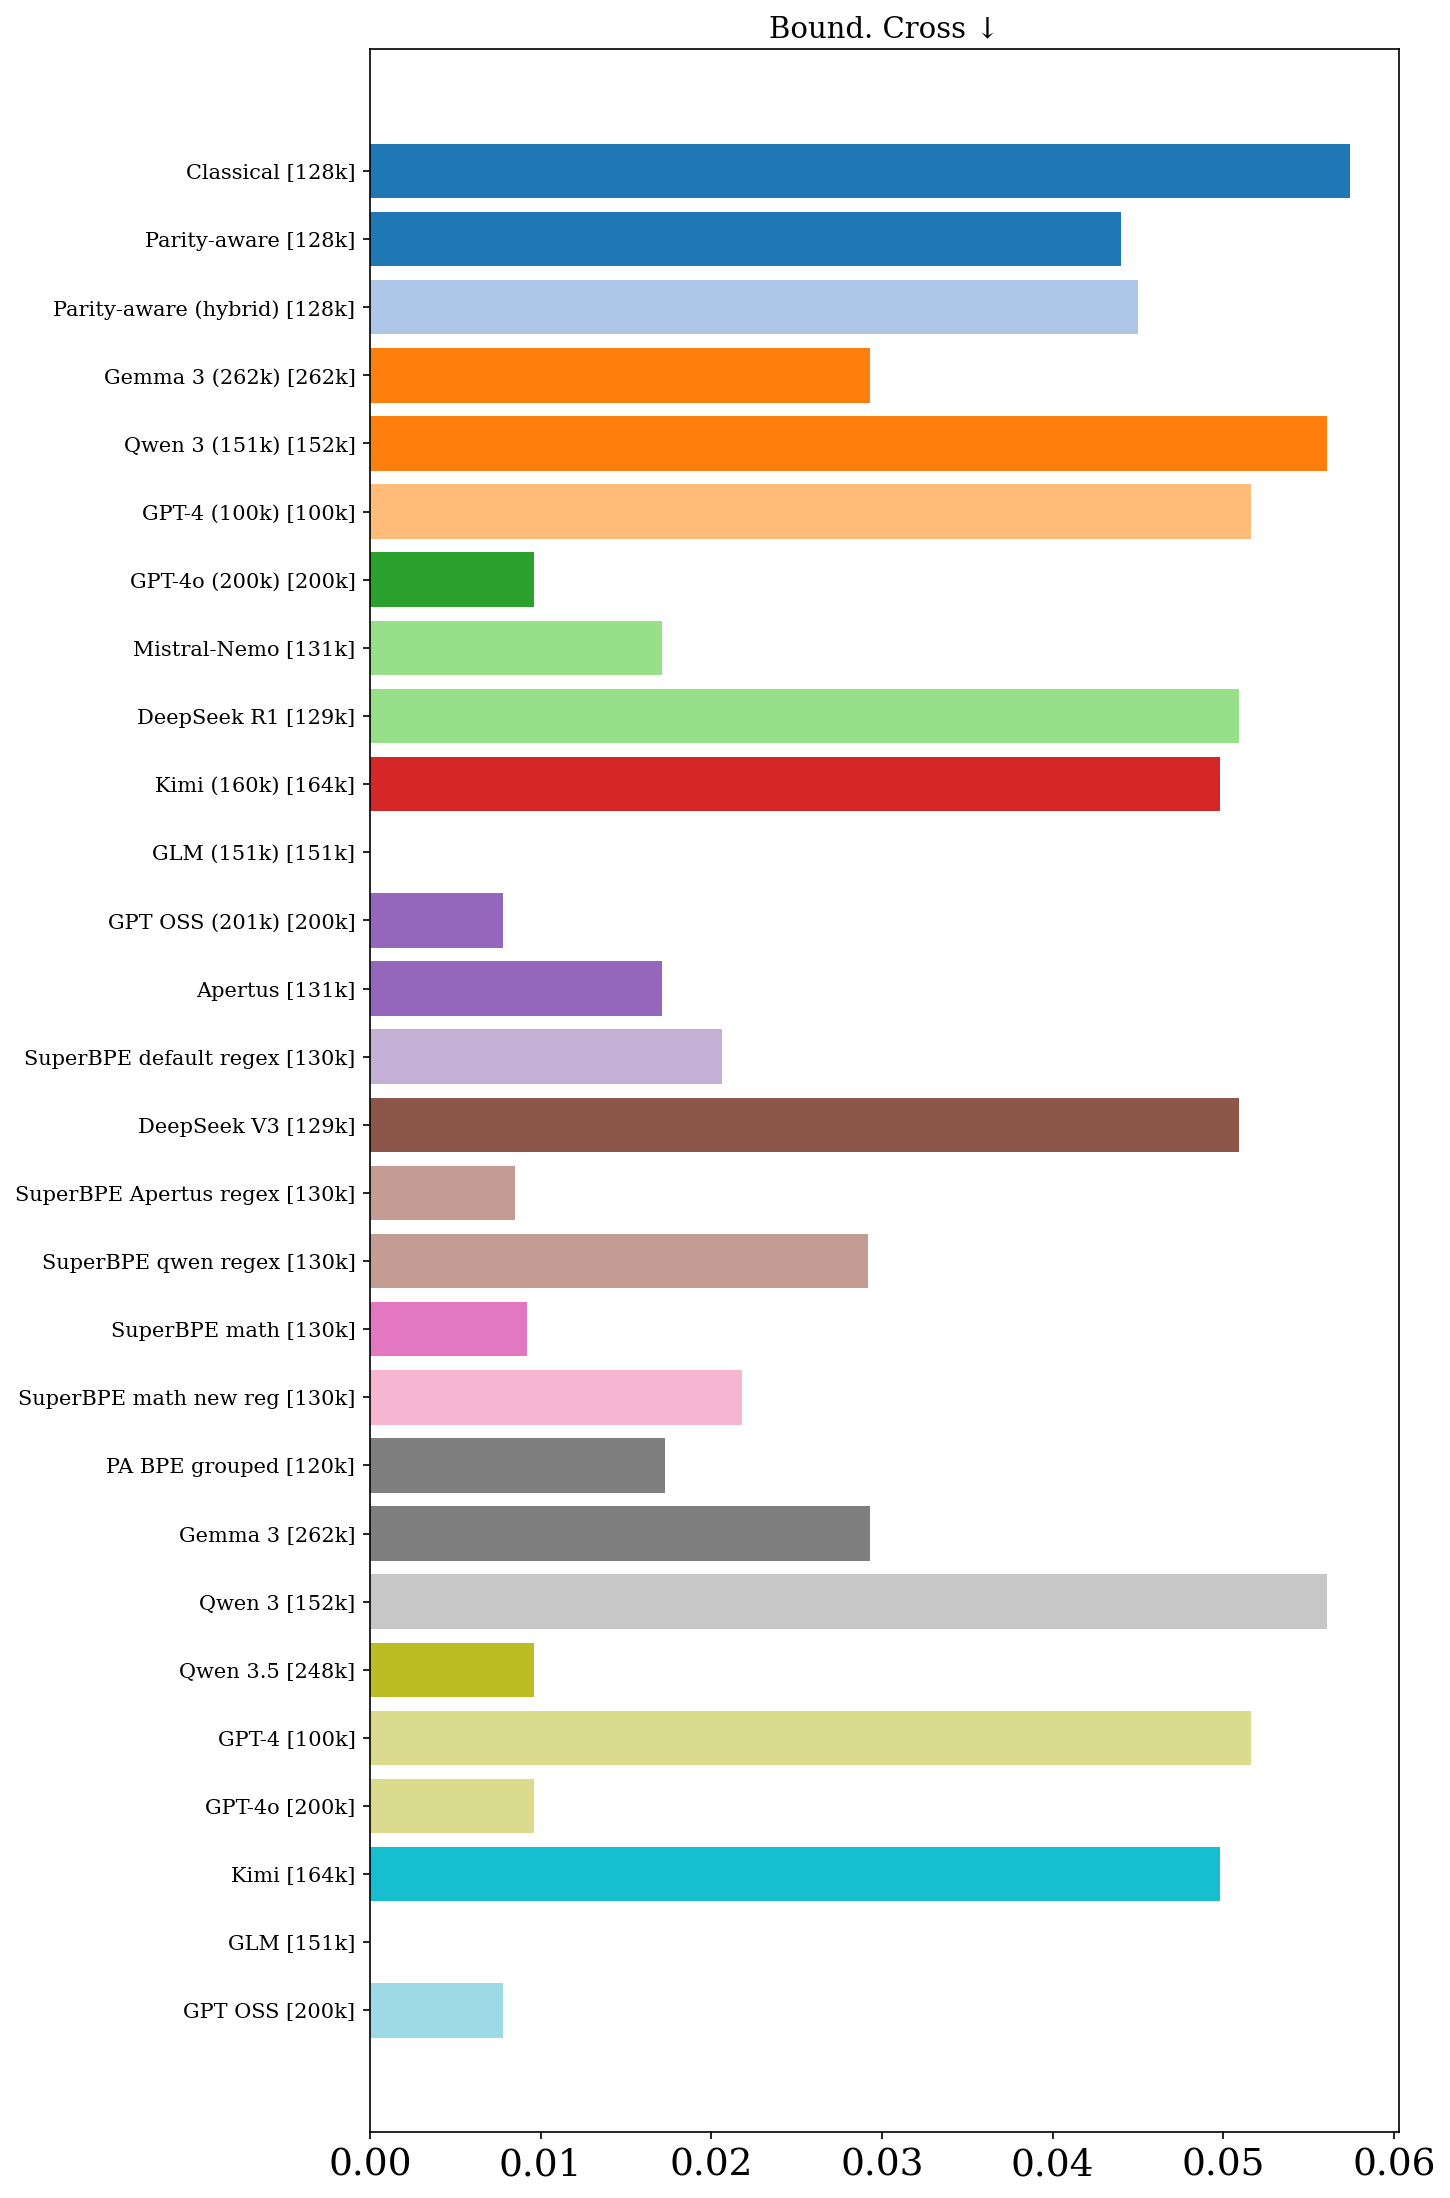
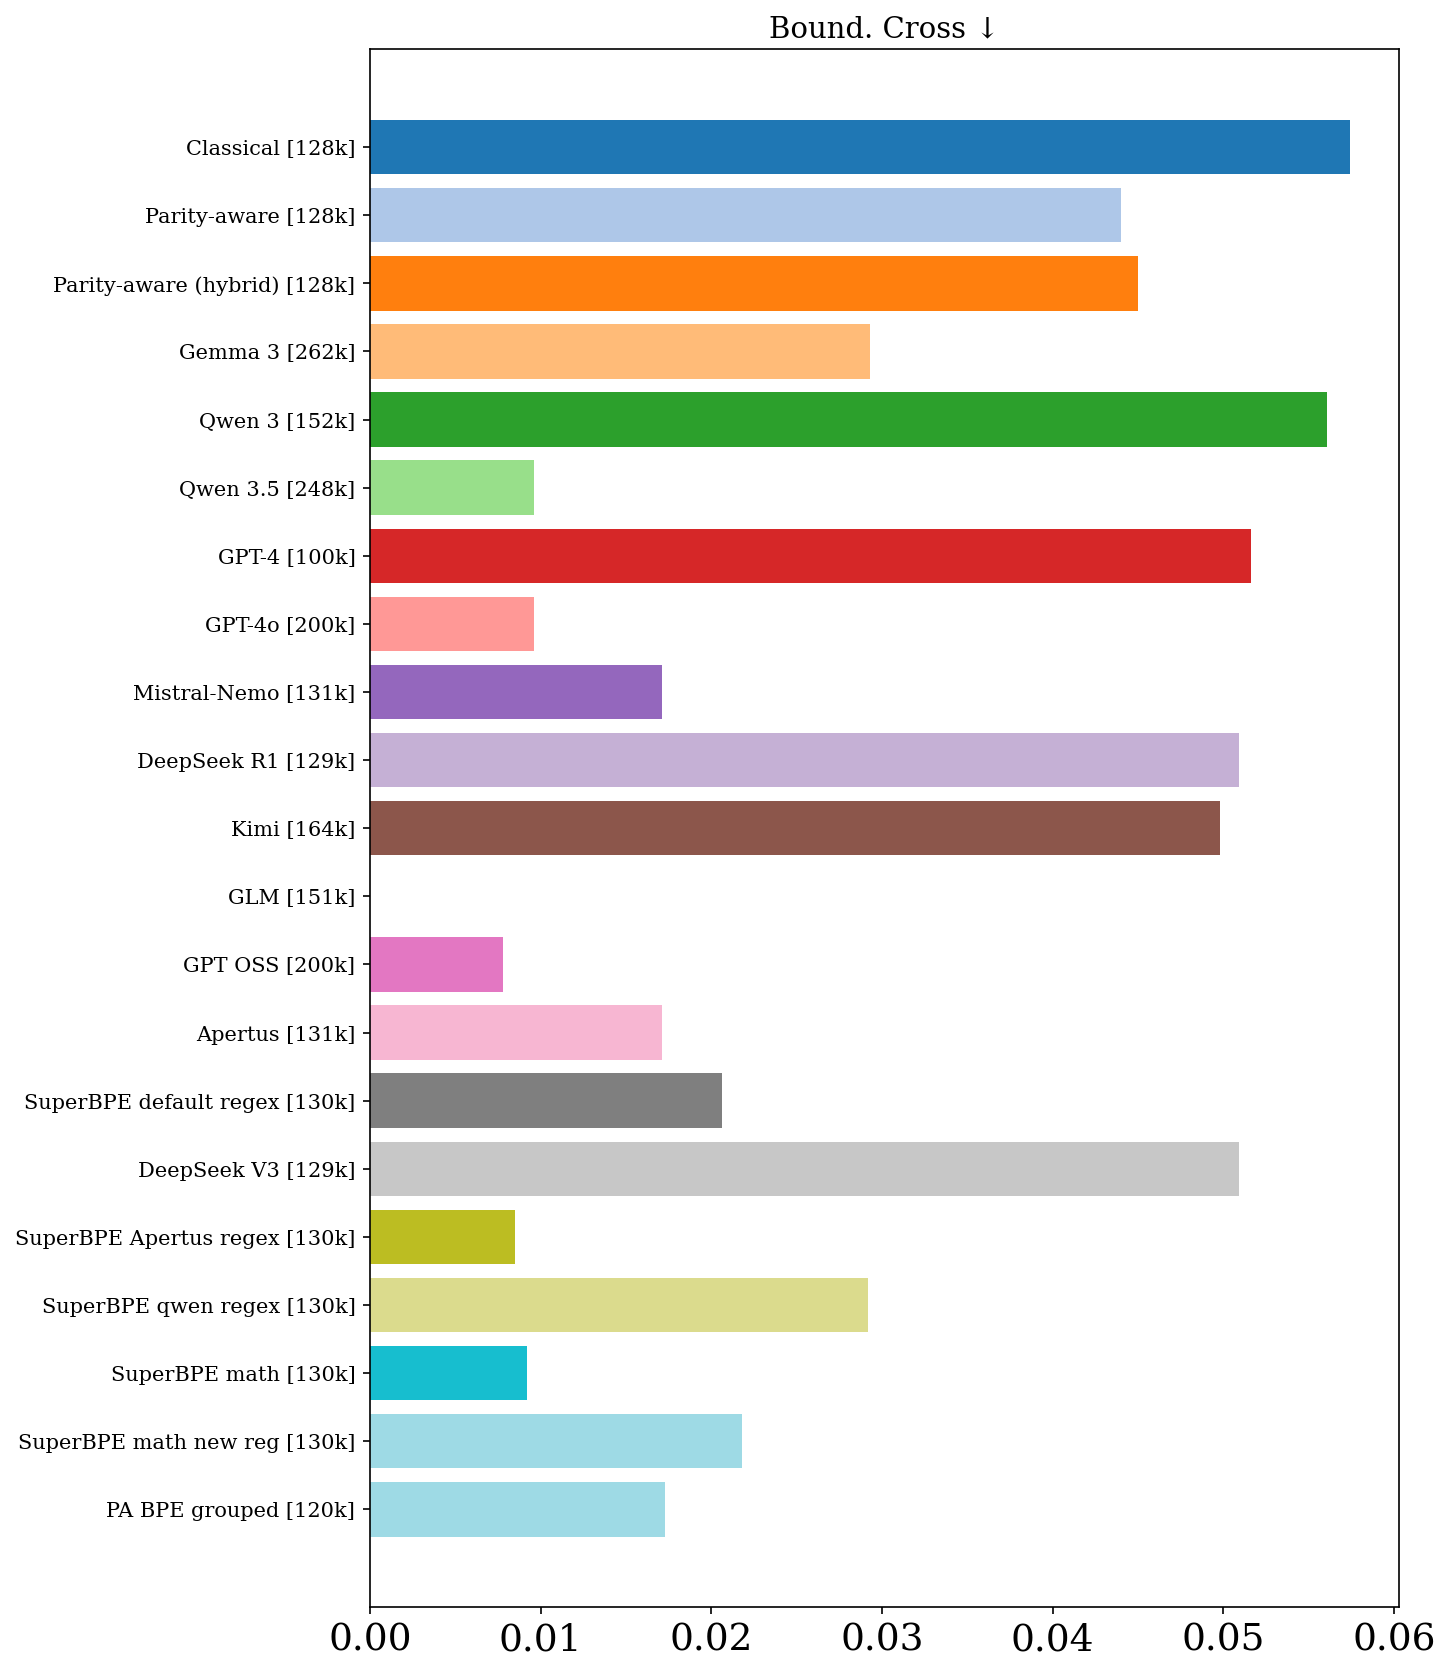
Update RESULTS_flores+_lines.md (2026-03-01 18:27:09)

diff --git a/RESULTS_flores+_lines.md b/RESULTS_flores+_lines.md
@@ -1,7 +1,28 @@
 # Tokenizer Evaluation Results
 
-_Last updated: 2026-03-01 18:26:31_
+_Last updated: 2026-03-01 18:27:10_
 
-| Tokenizer | Vocab Size | Fertility | Compression Rate | Vocab Util. | Avg Token Rank | Gini | 3-Digit Align. F1 | Op. Isolation | AST Align. | Ident. Frag. | Depth Corr. | Pat. Stability | Bound. Cross | Char Split | Languages | UTF-8 Integ. | TTR | Shannon Entropy | Dataset | User | Date |
+| Tokenizer | Vocab Size | Fertility ↓ | Compression Rate ↑ | Vocab Util. ↑ | Avg Token Rank ↓ | Gini ↓ | 3-Digit Align. F1 ↑ | Op. Isolation ↑ | AST Align. ↑ | Ident. Frag. ↓ | Depth Corr. ↑ | Pat. Stability ↑ | Bound. Cross ↓ | Char Split ↓ | Languages | Dataset | User | Date | UTF-8 Integ. | TTR | Shannon Entropy |
 | --- | --- | --- | --- | --- | --- | --- | --- | --- | --- | --- | --- | --- | --- | --- | --- | --- | --- | --- | --- | --- | --- |
-| Boundless pairwise aggressive n2 (dkletz, flores+) | 5,033 | 88.335 | 0.013 | 0.644 | 108.7 | 0.082 | --- | 0.047 | --- | --- | --- | --- | --- | --- | 92 | --- | 0.0004 | 7.19 | flores+ | dkletz | 2026-02-22 |
+| Classical (meistecl, flores+) | 128,004 | 59.463 | 0.022 | 0.682 | 4663.5 | 0.246 | 0.767 | 0.224 | 0.148 | 0.055 | **0.000** | **1.000** | 0.0574 | 0.1337 | 92 | flores+ | meistecl | 2026-02-27 | --- | --- | --- |
+| Parity-aware (meistecl, flores+) | 128,004 | 59.101 | 0.022 | **0.691** | 4456.6 | 0.220 | 0.728 | 0.224 | 0.188 | 0.082 | 0.000 | 1.000 | 0.0440 | 0.1106 | 92 | flores+ | meistecl | 2026-02-27 | --- | --- | --- |
+| Parity-aware (hybrid) (meistecl, flores+) | 128,004 | 58.267 | 0.022 | 0.691 | 4640.4 | 0.223 | 0.741 | 0.224 | 0.160 | 0.066 | 0.000 | 1.000 | 0.0450 | 0.1107 | 92 | flores+ | meistecl | 2026-02-27 | --- | --- | --- |
+| Gemma 3 (meistecl, flores+) | 262,145 | **46.221** | 0.026 | 0.447 | 9461.6 | 0.126 | 0.432 | 0.406 | 0.088 | 0.030 | -0.113 | 0.966 | 0.0293 | 0.0110 | 92 | flores+ | meistecl | 2026-02-27 | --- | --- | --- |
+| Qwen 3 (meistecl, flores+) | 151,669 | 75.897 | 0.020 | 0.324 | 1699.6 | 0.312 | 0.363 | 0.497 | 0.605 | 0.383 | 0.000 | 1.000 | 0.0561 | 0.2422 | 92 | flores+ | meistecl | 2026-02-27 | --- | --- | --- |
+| Qwen 3.5 (meistecl, flores+) | 248,077 | 53.347 | 0.024 | 0.387 | 5435.7 | 0.204 | 0.363 | 0.496 | **0.680** | 0.381 | 0.000 | 1.000 | 0.0096 | 0.0352 | 92 | flores+ | meistecl | 2026-02-27 | --- | --- | --- |
+| GPT-4 (meistecl, flores+) | 100,261 | 90.731 | 0.018 | 0.279 | 874.3 | 0.357 | 0.744 | 0.499 | 0.610 | 0.434 | 0.000 | 1.000 | 0.0516 | 0.4675 | 92 | flores+ | meistecl | 2026-02-27 | --- | --- | --- |
+| GPT-4o (meistecl, flores+) | 200,000 | 48.585 | 0.025 | 0.475 | 8435.5 | 0.160 | 0.741 | 0.376 | 0.615 | 0.450 | 0.000 | 1.000 | 0.0096 | 0.0495 | 92 | flores+ | meistecl | 2026-02-27 | --- | --- | --- |
+| Mistral-Nemo (meistecl, flores+) | 131,072 | 64.763 | 0.023 | 0.564 | 4318.1 | 0.308 | 0.363 | 0.185 | 0.060 | 0.037 | 0.000 | 1.000 | 0.0171 | 0.1525 | 92 | flores+ | meistecl | 2026-02-27 | --- | --- | --- |
+| DeepSeek R1 (meistecl, flores+) | 128,815 | 62.674 | 0.021 | 0.418 | 2864.6 | 0.229 | 0.767 | 0.204 | 0.000 | --- | 0.000 | 1.000 | 0.0509 | 0.0103 | 92 | flores+ | meistecl | 2026-02-27 | --- | --- | --- |
+| Kimi (meistecl, flores+) | 163,840 | 62.820 | 0.020 | 0.244 | 2283.0 | 0.199 | 0.767 | 0.466 | 0.609 | 0.408 | 0.000 | 1.000 | 0.0498 | 0.1139 | 92 | flores+ | meistecl | 2026-02-27 | --- | --- | --- |
+| GLM (meistecl, flores+) | 151,343 | 86.320 | 0.019 | 0.364 | 1631.6 | 0.372 | 0.471 | 0.000 | 0.001 | **0.000** | 0.000 | 1.000 | **0.0000** | **0.0000** | 92 | flores+ | meistecl | 2026-02-27 | --- | --- | --- |
+| GPT OSS (meistecl, flores+) | 200,019 | 47.045 | **0.027** | 0.521 | 9529.8 | 0.169 | 0.767 | 0.371 | 0.609 | 0.401 | 0.000 | 1.000 | 0.0078 | 0.0475 | 92 | flores+ | meistecl | 2026-02-27 | --- | --- | --- |
+| Apertus (meistecl, flores+) | 131,072 | 64.763 | 0.023 | 0.564 | 4318.1 | 0.308 | 0.363 | 0.185 | 0.060 | 0.037 | 0.000 | 1.000 | 0.0171 | 0.1525 | 92 | flores+ | meistecl | 2026-02-27 | --- | --- | --- |
+| SuperBPE default regex (meistecl, flores+) | 130,000 | 46.224 | 0.025 | 0.553 | 9333.4 | 0.106 | 0.767 | 0.339 | 0.225 | 0.028 | 0.000 | 1.000 | 0.0206 | 0.0249 | 92 | flores+ | meistecl | 2026-02-27 | --- | --- | --- |
+| DeepSeek V3 (meistecl, flores+) | 128,815 | 62.674 | 0.021 | 0.418 | 2864.6 | 0.229 | 0.767 | 0.204 | 0.000 | --- | 0.000 | 1.000 | 0.0509 | 0.0103 | 92 | flores+ | meistecl | 2026-02-27 | --- | --- | --- |
+| SuperBPE Apertus regex (meistecl, flores+) | 130,000 | 52.158 | 0.024 | 0.593 | 7591.0 | 0.192 | 0.767 | 0.982 | 0.259 | 0.029 | 0.000 | 1.000 | 0.0085 | 0.0139 | 92 | flores+ | meistecl | 2026-02-27 | --- | --- | --- |
+| SuperBPE qwen regex (meistecl, flores+) | 130,000 | 48.526 | 0.024 | 0.572 | 9524.6 | 0.097 | 0.363 | 0.268 | 0.284 | 0.024 | 0.000 | 1.000 | 0.0292 | 0.0332 | 92 | flores+ | meistecl | 2026-02-27 | --- | --- | --- |
+| SuperBPE math (meistecl, flores+) | 130,000 | 52.985 | 0.024 | 0.543 | 6733.8 | 0.190 | 0.767 | **0.983** | 0.264 | 0.028 | 0.000 | 1.000 | 0.0092 | 0.0126 | 92 | flores+ | meistecl | 2026-02-27 | --- | --- | --- |
+| SuperBPE math new reg (meistecl, flores+) | 130,000 | 46.554 | 0.025 | 0.539 | 8783.4 | 0.112 | **0.944** | 0.288 | 0.230 | 0.027 | 0.000 | 1.000 | 0.0218 | 0.0242 | 92 | flores+ | meistecl | 2026-02-27 | --- | --- | --- |
+| PA BPE grouped (meistecl, flores+) | 120,260 | 47.187 | 0.024 | 0.632 | 8240.1 | **0.064** | 0.700 | 0.224 | 0.159 | 0.067 | 0.000 | 1.000 | 0.0173 | 0.0205 | 92 | flores+ | meistecl | 2026-02-27 | --- | --- | --- |
+| Boundless pairwise aggressive n2 (dkletz, flores+) | 5,033 | 88.335 | 0.013 | 0.644 | **108.7** | 0.082 | --- | 0.047 | --- | --- | --- | --- | --- | --- | 92 | flores+ | dkletz | 2026-02-22 | --- | 0.0004 | 7.19 |
